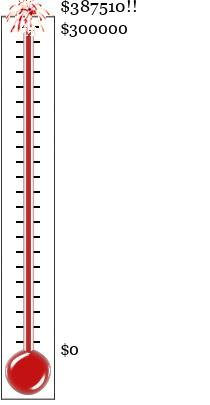
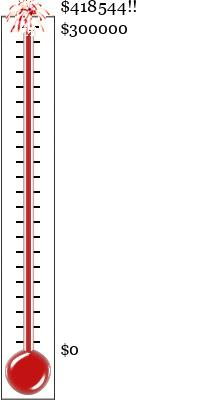
2021 update: Fundraising $418544; Microsoft goes Gold

Changed region(s): [[0.3143, 0.0, 0.6286, 0.0593]]

diff --git a/contributors.html b/contributors.html
@@ -114,6 +114,9 @@ On request we will provide a link to your website for donations of
             </UL>
             <LI> Platinum: $50,000 to $100,000
                 <LI> Gold: $25,000 to $50,000
+		<UL>
+                            <LI><A HREF=http://www.microsoft.com>Microsoft Corporation</A>
+		</UL>
                     <LI> Silver: $10,000 to $25,000
                        <LI> Bronze: $5,000 to $10,000
                             <UL>
